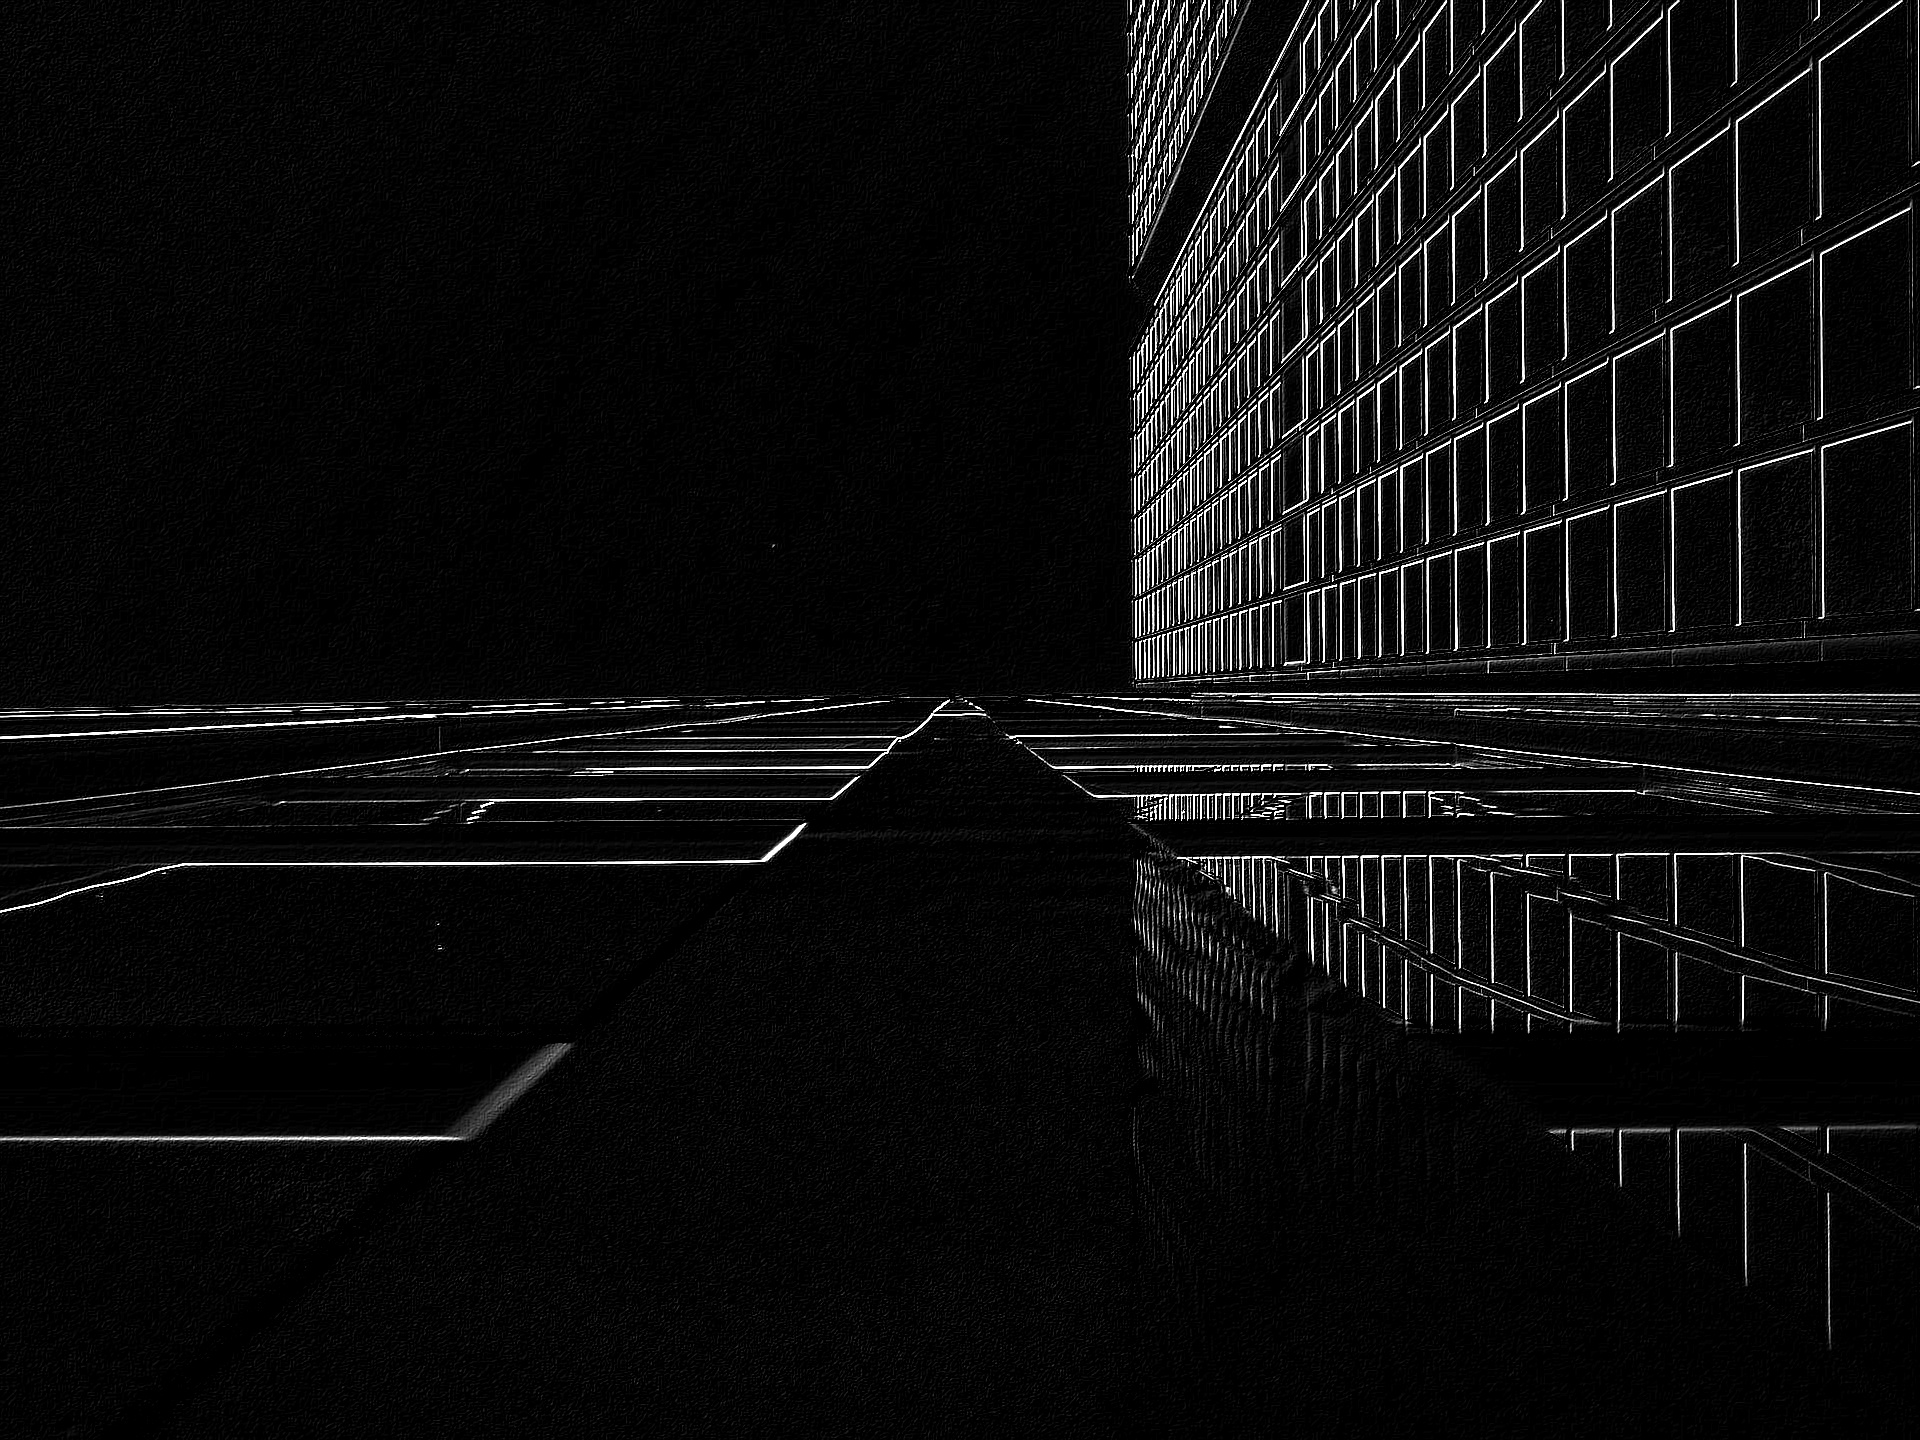
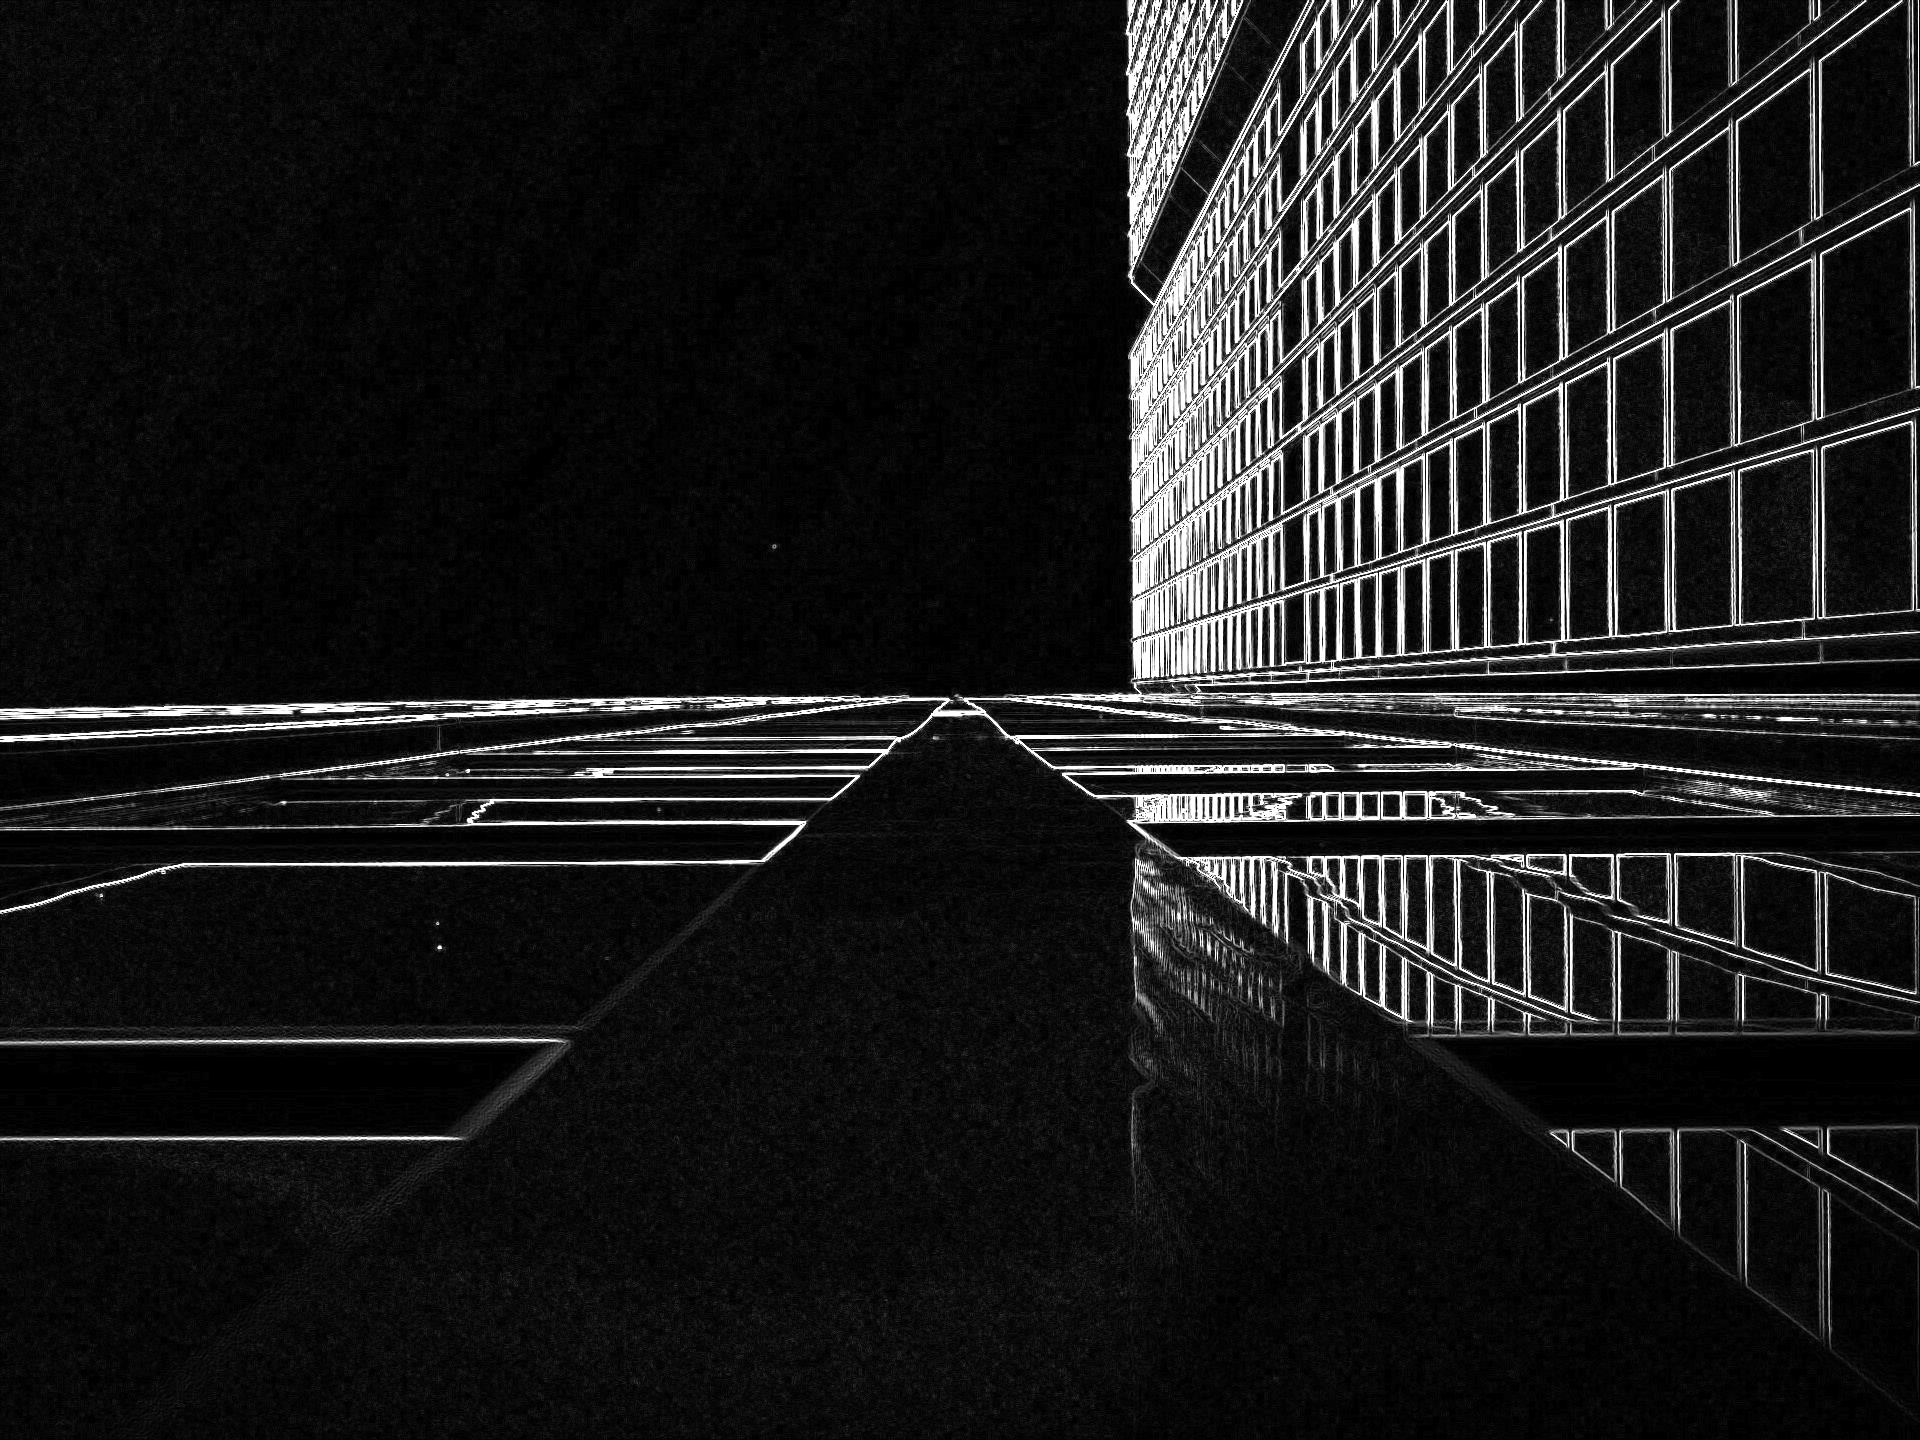
open cv sqrt

diff --git a/w1_sobel/src/main.rs b/w1_sobel/src/main.rs
@@ -12,7 +12,6 @@ fn main() {
         panic!("no argument for the image file supplied.")
     }
     let image_file_paths: Vec<&String> = args.iter().skip(1).collect();
-    // println!("Images to read: {:?}", image_file_paths);
     for image_path in image_file_paths {
         let img = ImageReader::open(image_path)
             .unwrap()
@@ -23,8 +22,9 @@ fn main() {
         println!("{} with size {}x{}", image_path, img.width(), img.height());
 
         let timer = Instant::now();
-        // println!("    Sobel Operations start");
+
         let output = sobel(&img);
+
         print_elapsed(&timer, "    Sobel done");
         output.save(output_image_path(&image_path)).unwrap();
     }
@@ -59,7 +59,6 @@ fn conv_3x3(
             output.put_pixel(x, y, Luma([val]));
         }
     }
-
     return output;
 }
 

diff --git a/w1_sobel/using_open_cv.py b/w1_sobel/using_open_cv.py
@@ -18,7 +18,8 @@ if __name__ == "__main__":
 
         gx = cv2.Sobel(img, cv2.CV_32F, 1, 0)
         gy = cv2.Sobel(img, cv2.CV_32F, 0, 1)
-        sobel_img = gx + gy
+        sobel_img = np.sqrt(np.multiply(gy, gy) +
+                            np.multiply(gx, gx))
 
         end = time.time()
         print(f"{image_path} with size {img.shape[0]}x{img.shape[1]}")

diff --git a/w1_sobel/README.md b/w1_sobel/README.md
@@ -38,11 +38,11 @@ Results:
 
 ```txt
 img/lizard.jpg with size 4000x4000
-    Sobel done: 31.27312660217285ms
+    Sobel done: 86.49826049804688ms
 img/house.jpg with size 1440x1920
-    Sobel done: 15.645742416381836ms
+    Sobel done: 18.620729446411133ms
 img/ball.jpg with size 169x200
-    Sobel done: 0.9815692901611328ms
+    Sobel done: 2.0127296447753906ms
 ```
 
 # way 3: using manual implementation of convolution in python:
